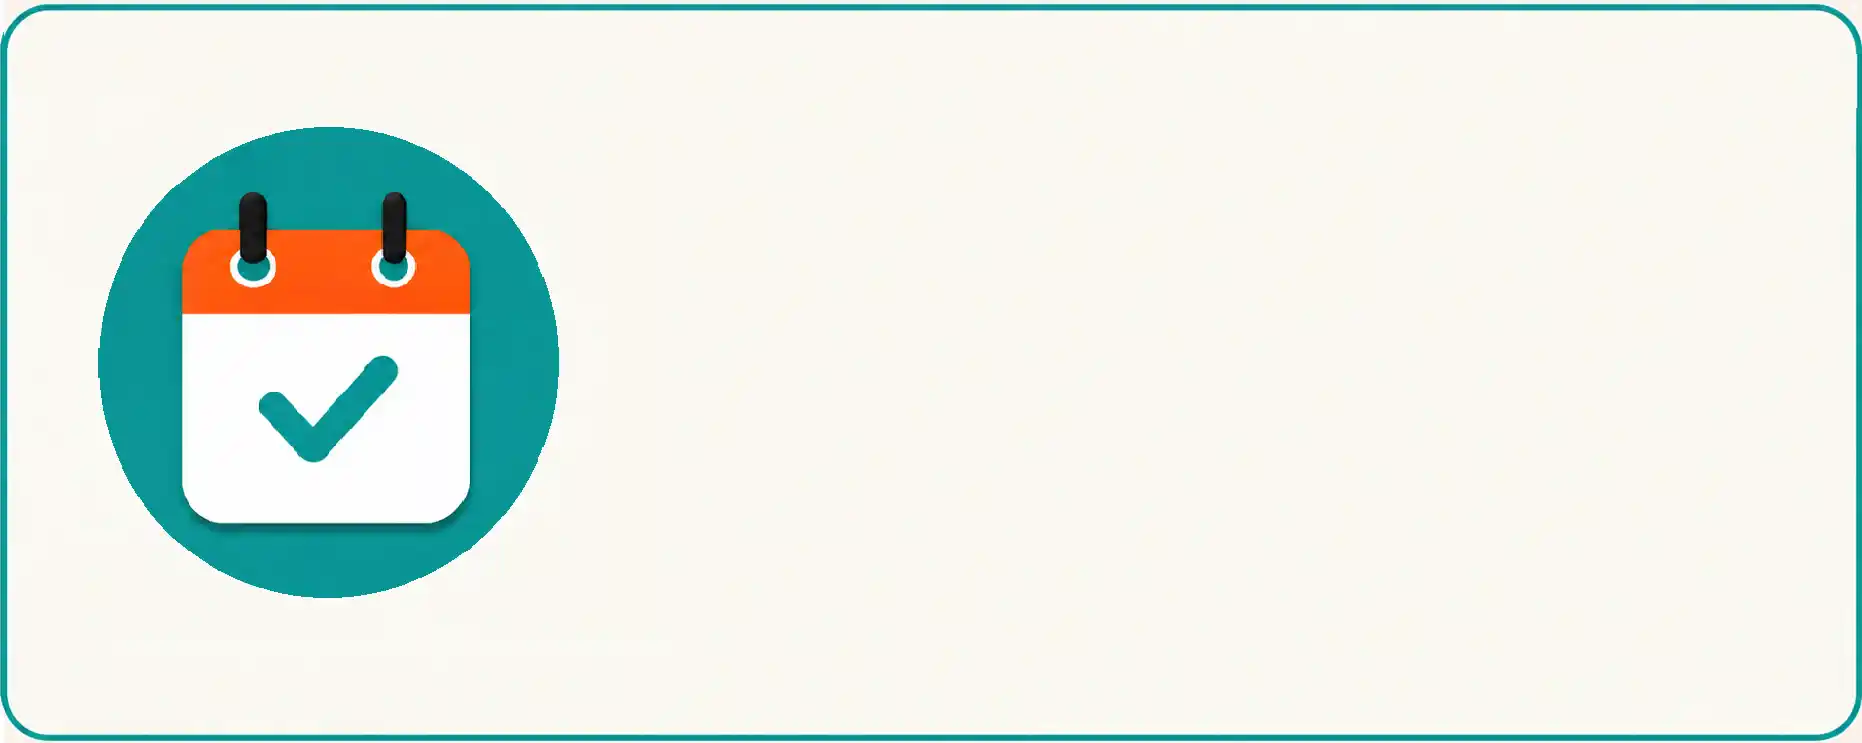
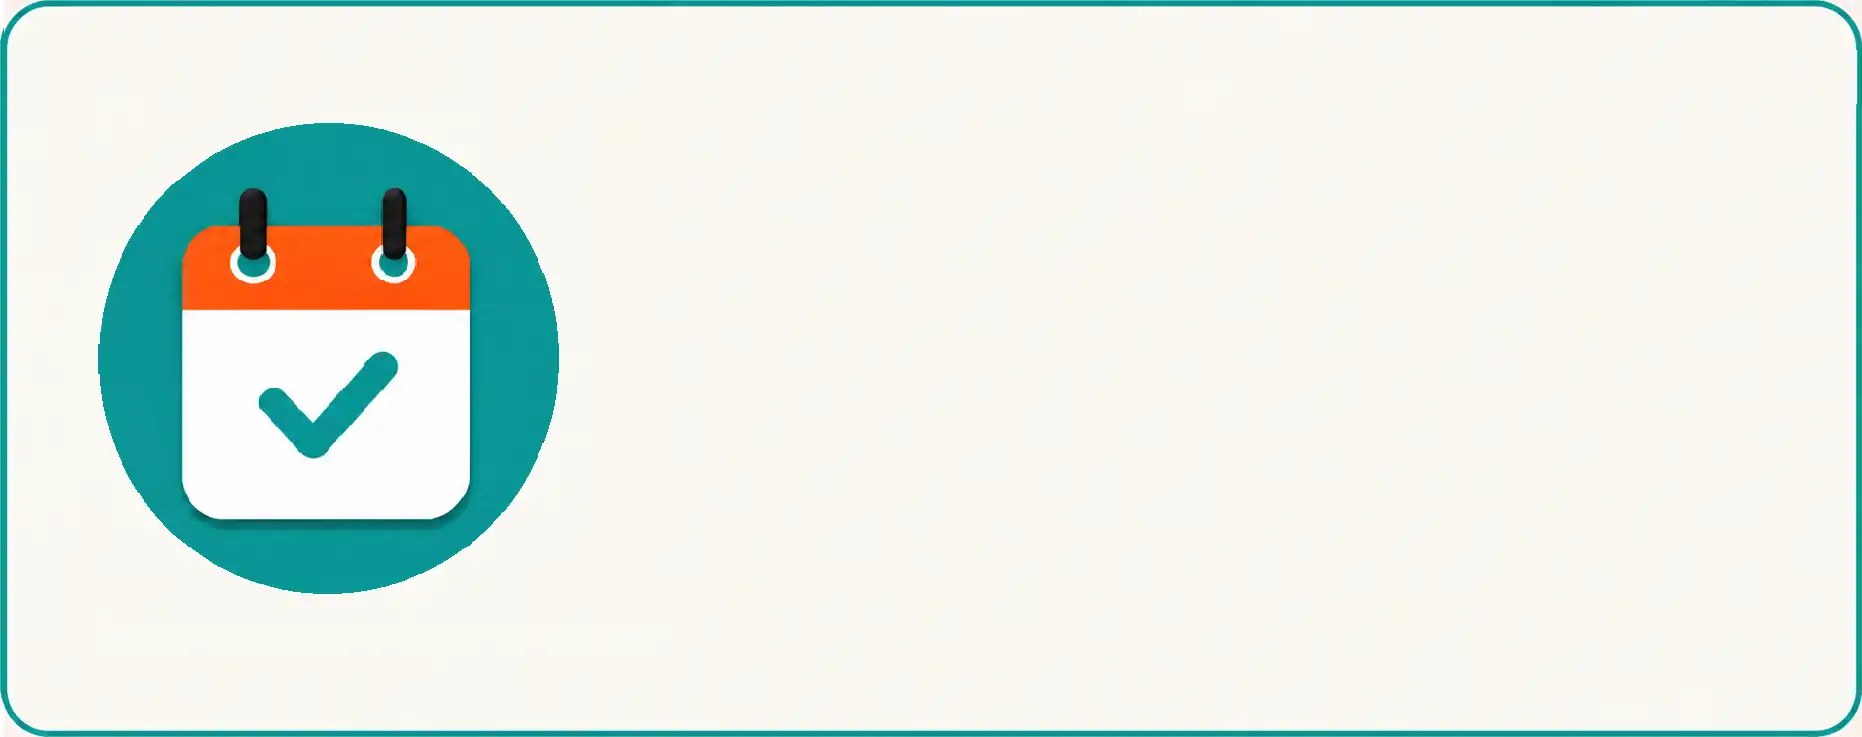
24

diff --git a/student/student.css b/student/student.css
@@ -32,7 +32,7 @@ button {
     max-width: 520px;
     min-height: 100dvh;
     margin: 0 auto;
-    padding: 48px 40px 90px;
+    padding: 48px 44px 90px;
 }
 
 /* 상단 영역 */
